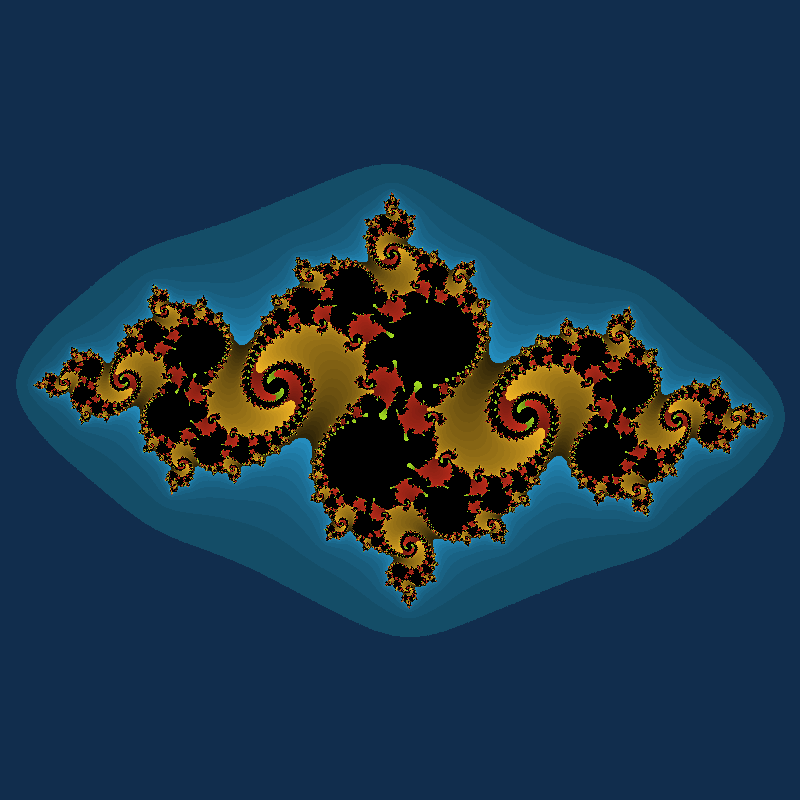
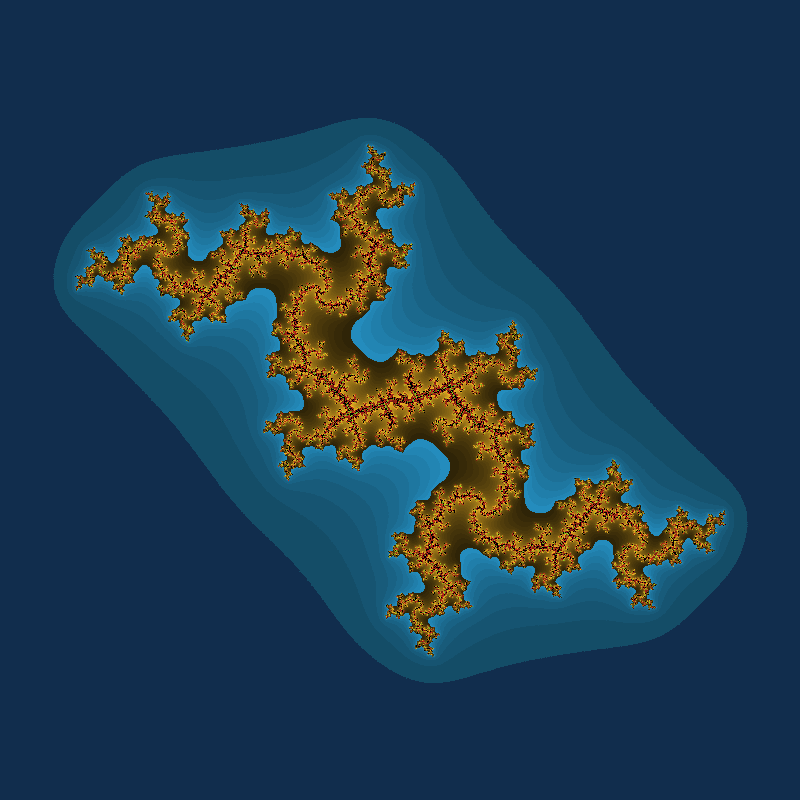
.

diff --git a/src/main.rs b/src/main.rs
@@ -1,18 +1,24 @@
 extern crate ndarray;
 
+use std::time::Instant;
 use ndarray::Array3;
-use std::{time::Instant, f64::consts::PI};
+use std::f64::consts::PI;
 use complex::complex::ComplexNumber;
 use image::RgbImage;
 
 fn main() {
-  let mut array = Array3::<u8>::zeros((800, 800, 3));
-
   let start = Instant::now();
-  create_julia_set(&mut array, 0.95);
-  array_to_image(array).save("julia_set.png").expect("opps!");
+  for i in 1..10 {
+    create_frames(0.01 * i as f64, format!("00{}", i).as_str());
+  }
+  for i in 10..100 {
+    create_frames(0.01 * i as f64, format!("0{}", i).as_str());
+  }
+  for i in 100..201 {
+    create_frames(0.01 * i as f64, format!("{}", i).as_str());
+  }
   let duration = start.elapsed();
-  println!("Time taken to create julia set is {:?}", &duration);
+  println!("Time taken to generate image sequence is {:?}", &duration);
 }
 
 fn iterate(z: &mut ComplexNumber, c: &ComplexNumber) {
@@ -81,4 +87,11 @@ fn array_to_image(arr: Array3<u8>) -> RgbImage {
 
     RgbImage::from_raw(width as u32, height as u32, raw)
         .expect("container should have the right size for the image dimensions")
+}
+
+fn create_frames(factor: f64, number: &str) {
+  let mut array = Array3::<u8>::zeros((800, 800, 3));
+
+  create_julia_set(&mut array, factor);
+  array_to_image(array).save(format!("../img_seq/julia_set.{}.png", number)).expect("opps!");
 }
